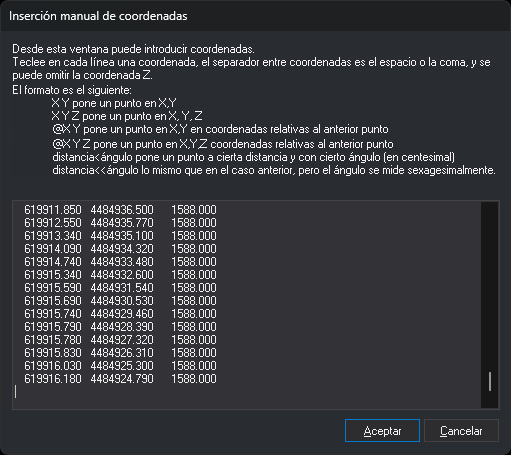
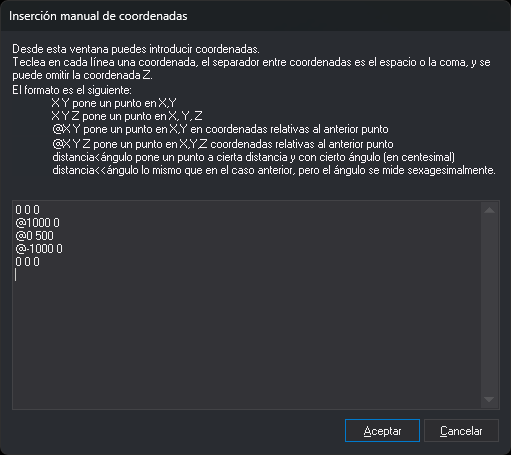
XY: captura nueva, finales de línea y coordenadas polares sin arroba

diff --git a/src/digi3d-ai/referencia/ventana-de-dibujo/ordenes/x/xy.md b/src/digi3d-ai/referencia/ventana-de-dibujo/ordenes/x/xy.md
@@ -22,7 +22,9 @@ La orden envía cada punto a la orden que se está ejecutando como si se hubiera
 
 ![Cuadro de diálogo Inserción manual de coordenadas](../../../../../images/xy.png)
 
-Teclea un punto por línea. Las líneas pueden terminar en CR LF o solo en LF. Separa los valores con espacios, tabuladores, comas o el signo `=`. Cada línea admite uno de estos formatos:
+Esta orden solicita en este cuadro de diálogo los puntos que envía a la orden que se está ejecutando.
+
+Teclea un punto por línea. Las líneas pueden terminar en CR LF, en LF o en CR. Separa los valores con espacios, tabuladores, comas o el signo `=`. Cada línea admite uno de estos formatos:
 
 | Formato | Significado |
 | :--- | :--- |
@@ -33,11 +35,13 @@ Teclea un punto por línea. Las líneas pueden terminar en CR LF o solo en LF. S
 | `distancia<ángulo` | Distancia y ángulo en grados centesimales respecto al punto anterior, sin cambiar la Z. El ángulo se mide desde el eje X en sentido antihorario |
 | `distancia<<ángulo` | Distancia y ángulo en grados sexagesimales respecto al punto anterior, sin cambiar la Z. El ángulo se mide desde el eje X en sentido antihorario |
 
-La orden ignora las líneas vacías, las líneas con un solo valor y los valores que siguen al tercero. Un valor que no es un número cuenta como 0.
+Las coordenadas polares (`<` y `<<`) son siempre relativas al punto anterior y no llevan `@`. Una línea que empieza por `@` y contiene `<` tiene un solo valor, y la orden la ignora.
+
+La orden ignora las líneas vacías, las líneas con un solo valor y los valores que siguen al tercero. Un valor que no empieza por un número cuenta como 0; si empieza por un número, la orden usa ese número e ignora el resto del valor.
 
 El punto anterior de la primera línea es el último vértice de la orden que se está ejecutando. Lo proporcionan, entre otras, [LINEA](/digi3d-ai/referencia/ventana-de-dibujo/ordenes/l/linea.md), [POL](/digi3d-ai/referencia/ventana-de-dibujo/ordenes/p/pol.md), [2P](/digi3d-ai/referencia/ventana-de-dibujo/ordenes/2/2p.md), [3P](/digi3d-ai/referencia/ventana-de-dibujo/ordenes/3/3p.md) y [RECTANGULO\_DR](/digi3d-ai/referencia/ventana-de-dibujo/ordenes/r/rectangulo-dr.md). En las líneas siguientes, el punto anterior es el de la línea anterior.
 
-Si no hay punto anterior, porque no hay ninguna orden en ejecución, porque la orden no proporciona su último vértice o porque todavía no tiene ninguno, la primera línea tiene que ser una coordenada absoluta. Si no lo es, la orden muestra el mensaje _Error: No se admite que el primer punto sea relativo, debe ser absoluto._ y no envía ningún punto.
+Si no hay punto anterior, porque no hay ninguna orden en ejecución, porque la orden no proporciona su último vértice o porque todavía no tiene ninguno, la primera línea que la orden no ignora tiene que ser una coordenada absoluta. Si no lo es, la orden muestra el mensaje _Error: No se admite que el primer punto sea relativo, debe ser absoluto._ y no envía ningún punto.
 
 Si pulsas _Cancelar_, la orden termina sin enviar ningún punto. El contenido del cuadro no se conserva para la siguiente ejecución.
 
